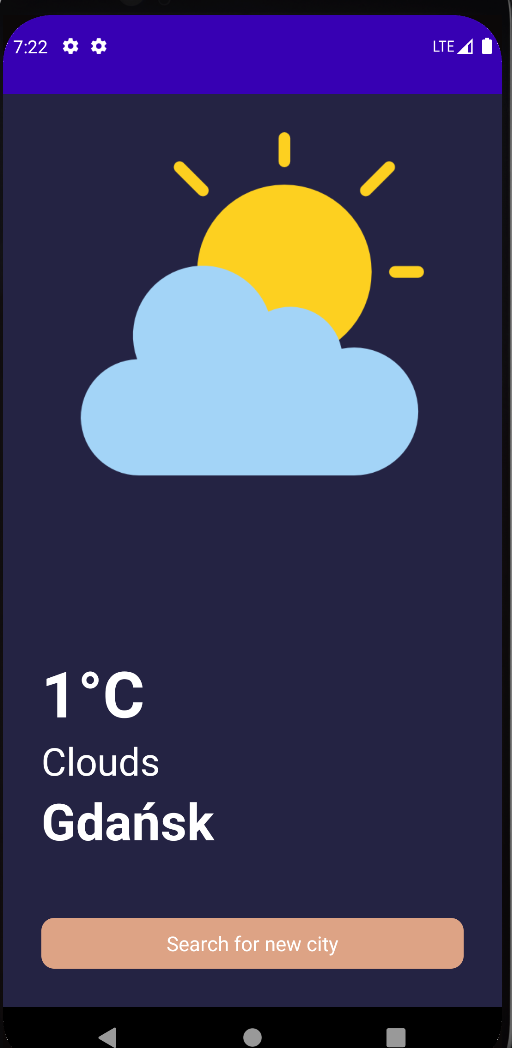
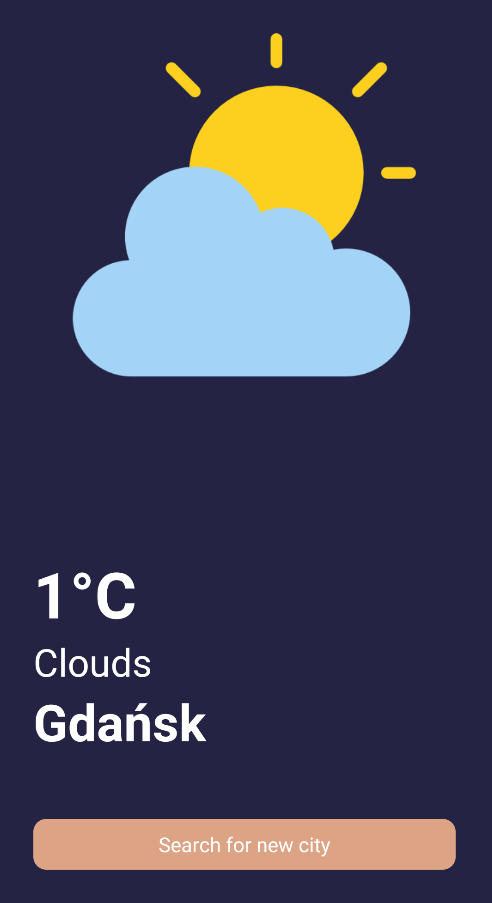
Update screenshot

diff --git a/README.md b/README.md
@@ -18,4 +18,4 @@ final String APP_ID = "";
 
 ## 📷 Screenshots
 
-![1](https://github.com/aXenDeveloper/java-android-weather/blob/main/screenshots/1-min.png?raw=true)
+![1](https://github.com/aXenDeveloper/java-android-weather/blob/main/screenshots/1.png?raw=true)
